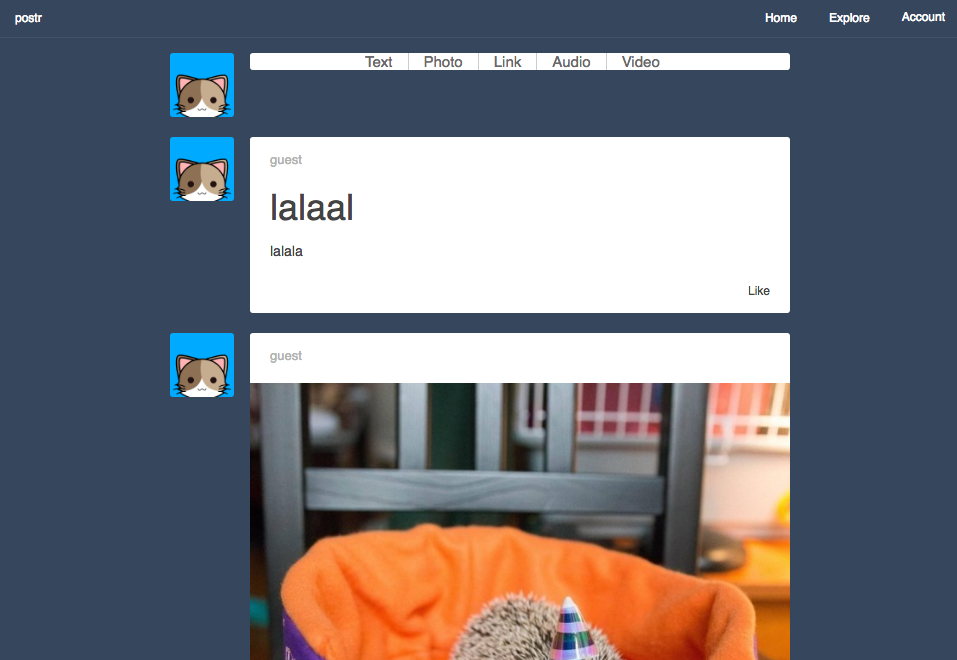
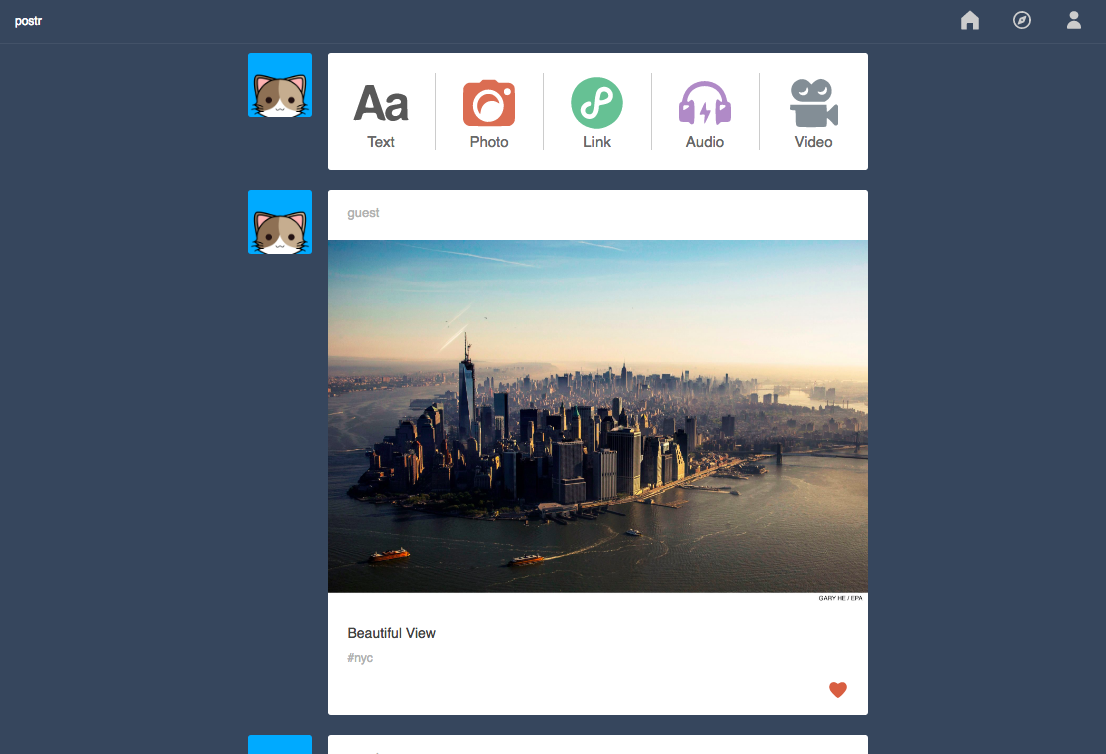
update screenshots

diff --git a/README.md b/README.md
@@ -21,8 +21,8 @@ Postr is a multi purpose blogging platform that allows users to easily find new 
   There are five main forms: `TextForm`, `PhotoForm`, `LinkForm`, `AudioForm`, `VideoForm` that users can utilize to post their different contents.
 
 ![dashboard](docs/photos/dashboard.png)
+
 ![explore](docs/photos/explore.png)
-![text form](docs/photos/textform.png)
 
 ### Liking Posts
 
